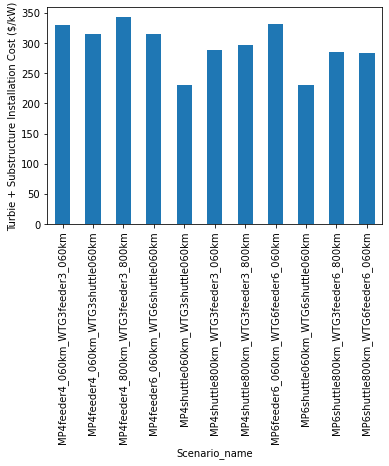
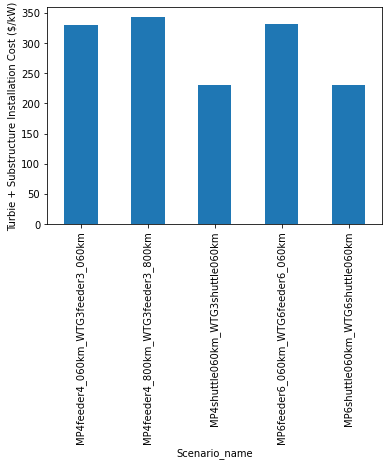
added limited config directory with renamed configs

Changed region(s): [[0.1234, 0.03, 0.6478, 0.9614], [0.6787, 0.03, 0.9871, 0.9614], [0.5244, 0.5107, 0.5861, 0.9313]]

diff --git a/run_feeder_vs_shuttle_scenarios.py b/run_feeder_vs_shuttle_scenarios.py
@@ -55,8 +55,8 @@ blade_release_time = .5            # Release blade sectin on site; dfault = 1
 blade_attach_time = 1.5           # Attach bladesectin on site; dfault = 3.5
 
 
-for i,f in enumerate(os.listdir('configs_renamed/')):
-    config_yaml_file = os.path.join('configs_renamed/', f)
+for i,f in enumerate(os.listdir('configs_renamed_limit/')):
+    config_yaml_file = os.path.join('configs_renamed_limit/', f)
     
     if os.path.isfile(config_yaml_file):
         name, extension = os.path.splitext(f)
